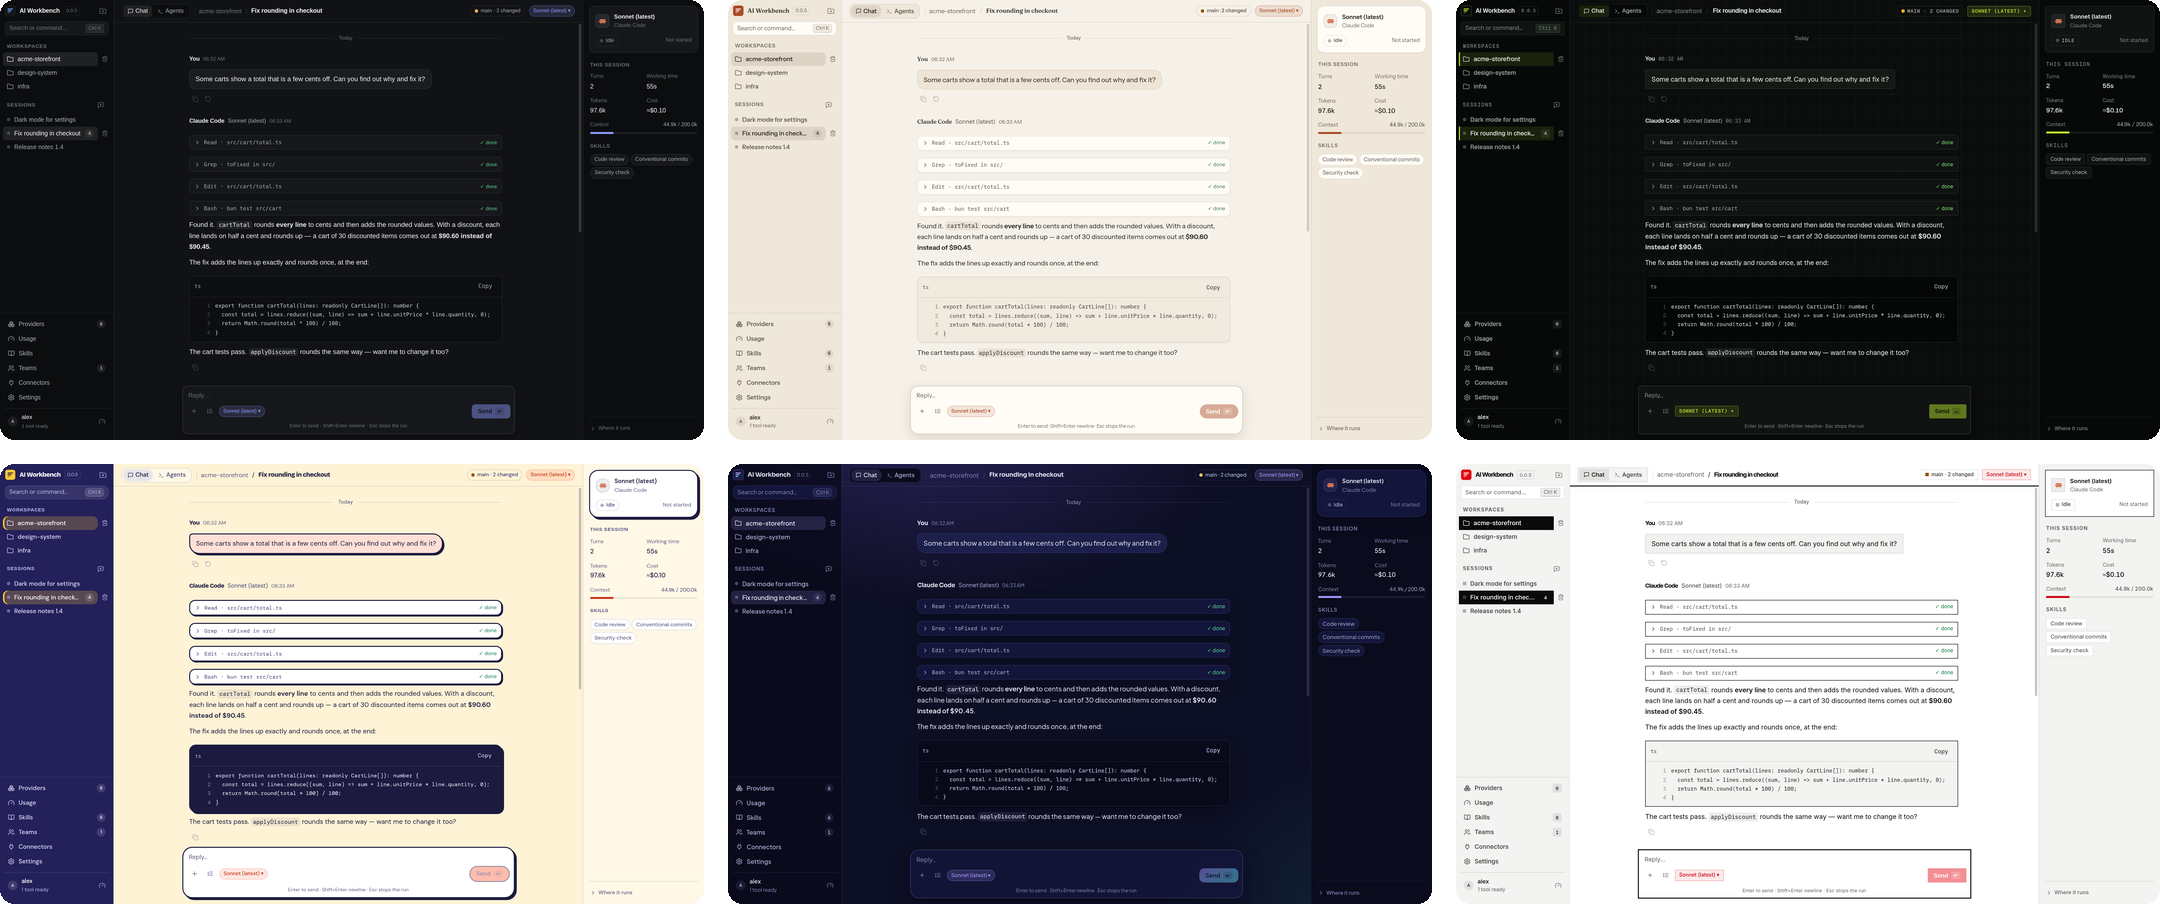
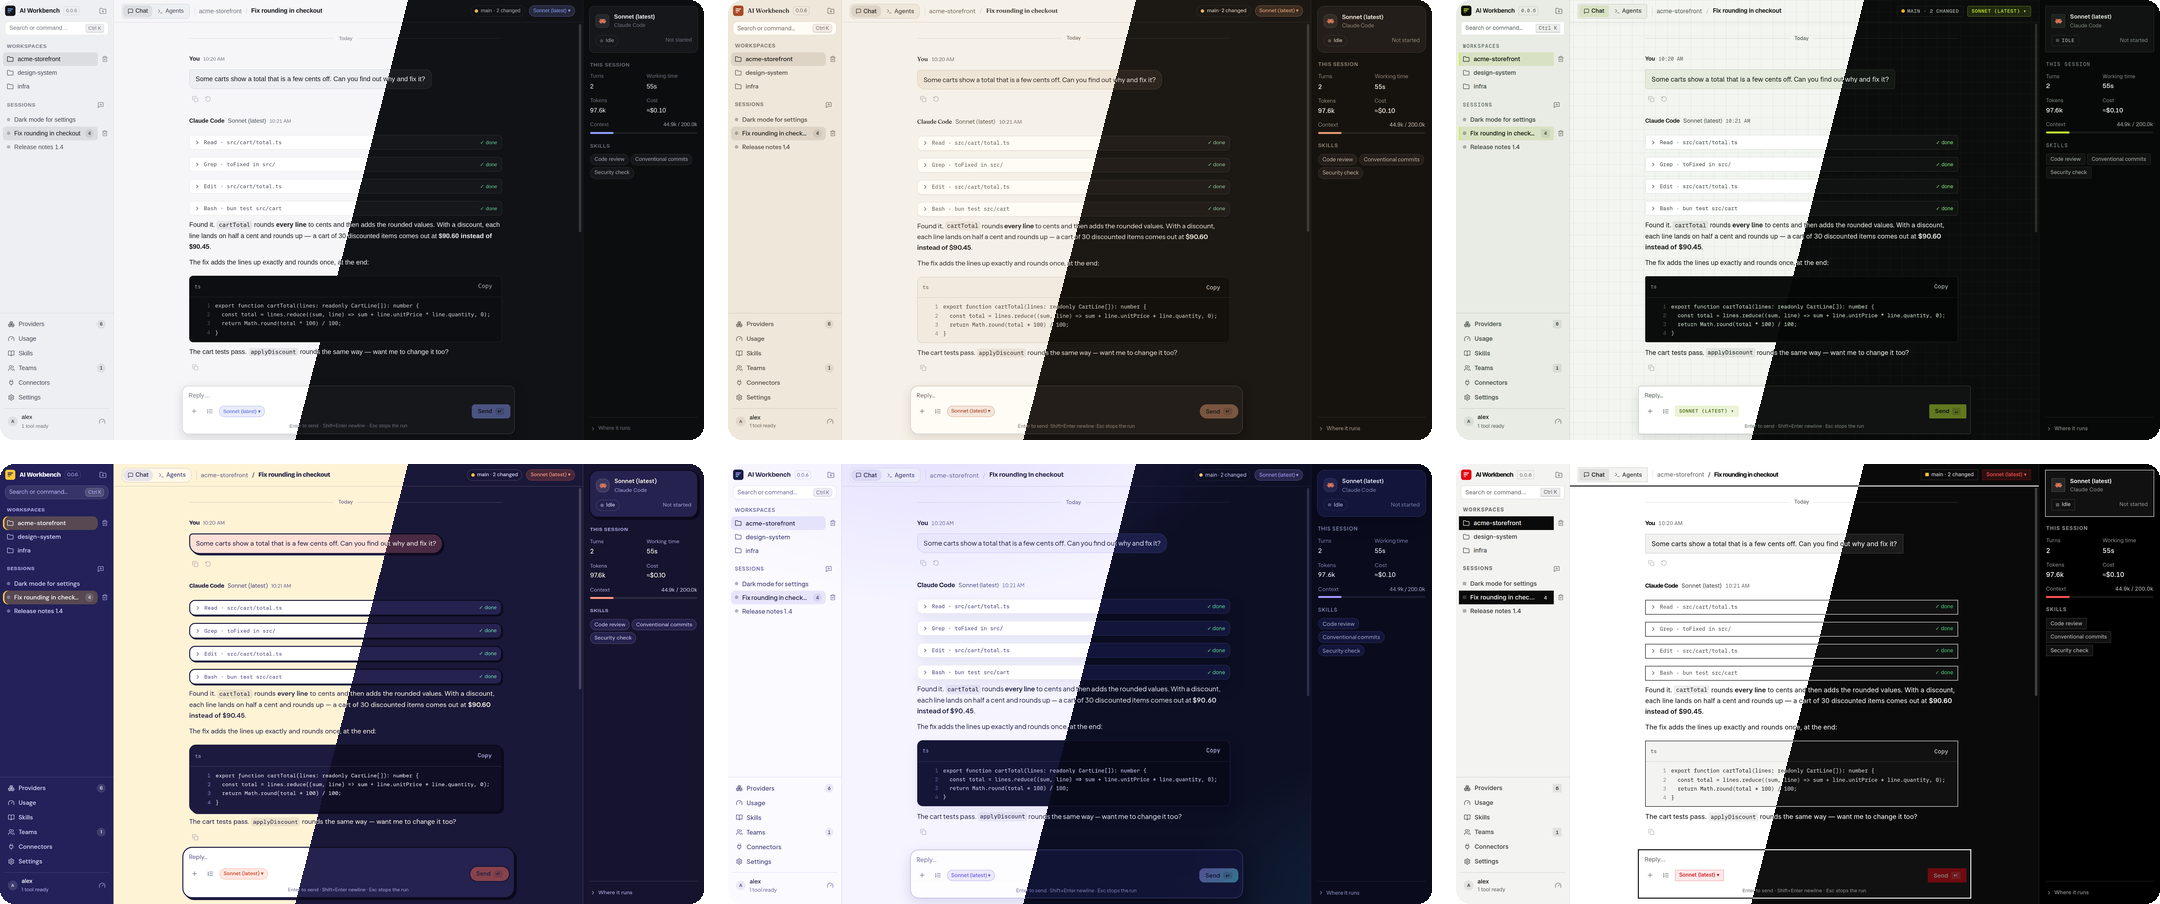
Document light and dark themes, and show both in the README
Claude-Session: https://claude.ai/code/session_01MM3yeZfaugfohn54DjuZeY

diff --git a/DEVELOPMENT.md b/DEVELOPMENT.md
@@ -101,33 +101,42 @@ migrations folder being present at runtime.
 
 ## Themes
 
-The app ships eight appearances: Quiet in dark, light or following the
-system, and Atelier, Mission Control, Playground, Aurora and Swiss. A theme
-is only token values, so a new one is mostly one block of CSS:
+A theme is chosen together with a mode. The `theme` setting is one of
+Quiet, Atelier, Mission Control, Playground, Aurora and Swiss; the `mode`
+setting is light, dark or the system's. `resolveTheme` in `packages/ui`
+turns both into the name the stylesheets use: Quiet is `dark` or `light`,
+every other theme `<theme>-light` or `<theme>-dark`, set as `data-theme`.
+Settings written before the two were split (0.0.6 and earlier, where the
+mode was part of the theme) are read through `upgradeStoredSettings` in
+`packages/shared`. A theme is only token values, so a new one is mostly CSS:
 
 - `packages/ui/src/tokens.css` — every token, Quiet's values, and the values
   made from the others (radii from `--radius-scale`, the sidebar's palette,
   the terminal's ground). Themes are keyed on `data-theme` of any element,
   not only the root, which is how a picker swatch shows a theme without
   switching the window.
-- `packages/ui/src/themes.css` — the other themes: colours, the island's own
-  dark palette, the terminal's sixteen colours, the three typefaces, shape
-  (`--radius-scale`, `--radius-pill`) and the outline of grouped surfaces
-  (`--card-*`).
+- `packages/ui/src/themes.css` — the other themes. Each has a block matched
+  with `[data-theme|="<theme>"]` (both modes) holding its typefaces, shape
+  (`--radius-scale`, `--radius-pill`), the outline of grouped surfaces
+  (`--card-*`), the island's own dark palette and the colours of its first
+  mode, and a block for `<theme>-light` or `<theme>-dark` with the colours of
+  the other mode.
 - `packages/ui/src/fonts.css` — the typefaces, from `@fontsource` packages,
   Latin only, bundled into the app (the page's policy loads nothing from
   outside).
 - `apps/desktop/src/renderer/themes.css` — where the character tokens apply
   (display face, labels, grouped surfaces, the sidebar's palette) and each
-  theme's touches that a token cannot express.
+  theme's touches that a token cannot express, written with `|=` and
+  tokens so they hold in both modes.
 - `apps/desktop/src/renderer/lib/themes.ts` — the names the picker shows;
   the ids themselves are the `theme` setting's enum in `packages/shared`.
 
-`packages/ui/src/__tests__/themes.test.ts` resolves every theme's tokens and
-fails when a text colour does not read on its ground (WCAG contrast), in
-the window, the sidebar, code blocks, the terminal and the island. The
-startup check picks every theme in Settings and checks the rendered window,
-that its typeface loaded, and that the island followed.
+`packages/ui/src/__tests__/themes.test.ts` resolves every theme in both
+modes from the CSS and fails when a text colour does not read on its ground
+(WCAG contrast), in the window, the sidebar, code blocks, the terminal and
+the island. The startup check picks every theme in both modes in Settings
+and checks the rendered window and its colour scheme, that its typeface
+loaded, and that the island followed.
 
 ## Conventions
 

diff --git a/HANDOFF.md b/HANDOFF.md
@@ -14,10 +14,19 @@ branch `design/approved-rollout` is merged into it and can be deleted.
 tests (20 real-tool tests skipped without their tools), the build and both
 startup phases (198 checks, none failing).
 
-What changed since 0.0.5, each verified by tests and the startup check:
+Since 0.0.6 (not released yet): **every theme has a light and a dark
+mode.** The setting is split into `theme` (Quiet, Atelier, Mission
+Control, Playground, Aurora, Swiss) and `mode` (system, light, dark);
+0.0.6's single choice is read through `upgradeStoredSettings`, so nobody's
+look changes on update. Settings has a Mode control under the theme picker,
+whose swatches show each theme light and dark; the command palette has
+"Theme: …" and "Mode: …". The contrast test and the startup check cover
+all twelve. How it is put together: `DEVELOPMENT.md` → Themes.
 
-- **Themes.** Eight appearances in a picker under Settings (Quiet dark,
-  light and system; Atelier, Mission Control, Playground, Aurora, Swiss),
+What changed in 0.0.6 over 0.0.5, each verified by tests and the startup check:
+
+- **Themes.** A picker under Settings (Quiet in dark, light and system;
+  Atelier, Mission Control, Playground, Aurora, Swiss in one mode each),
   also in the command palette. A theme is token values only; how they are
   laid out and how to add one is in `DEVELOPMENT.md` → Themes. Every raw
   colour and radius in the components became a token for this, the
@@ -85,8 +94,9 @@ straight into a fresh database, the app started as that user with a clean
 environment, and each view captured over the DevTools protocol at 1440×900
 and twice the pixel density, then scaled to 2160 px wide. The island picture
 is the real island, with a stand-in for Claude Code asking for a permission,
-laid over a blurred agents view. `themes.png` is the conversation in six
-themes, each picked in Settings, set side by side. Retake them the same way
+laid over a blurred agents view. `themes.png` is the conversation in the six
+themes, each picked in Settings and cut on a slant between its light and
+dark mode. Retake them the same way
 when a view changes; the README says they show demo data.
 
 ## How to run it

diff --git a/README.md b/README.md
@@ -105,13 +105,14 @@ session.
 
 ### Make it look the way you like
 
-<img src="docs/images/themes.png" alt="The same conversation in six themes: Quiet Dark, Atelier, Mission Control, Playground, Aurora and Swiss" />
+<img src="docs/images/themes.png" alt="The same conversation in six themes, each shown light on the left and dark on the right: Quiet, Atelier, Mission Control, Playground, Aurora and Swiss" />
 
 Pick a **theme** under Settings and the whole app changes with it — colours, type, shapes, the
-terminals and the status island: **Quiet** (dark, light or following your system), warm
-**Atelier** with serif headings, dense **Mission Control** in lime on black, bold
-**Playground** with thick outlines, **Aurora** in night blue and violet light, and strict black
-and red **Swiss**. The typefaces ship with the app, and every theme is checked to stay readable.
+terminals and the status island: calm **Quiet**, warm **Atelier** with serif headings, dense
+**Mission Control** with lime signals, bold **Playground** with thick outlines, **Aurora** in
+violet and cyan light, and strict black, white and red **Swiss**. Every theme comes **light and
+dark** — pick one, or let it follow your system. The typefaces ship with the app, and every
+theme is checked to stay readable in both modes.
 
 ## How it works
 

diff --git a/STATUS_ISLAND.md b/STATUS_ISLAND.md
@@ -74,10 +74,10 @@ tiny: state, open, dismiss, cycle — nothing else.
 
 ## Theme
 
-The island draws in the app's theme — its typeface, shape and accent — and
-switches with it: main pushes the setting on its own channel
-(`ISLAND_THEME_CHANNEL`) when it changes and whenever the island page loads.
-Its body stays dark in every theme, each theme giving it a dark palette of
+The island draws in the app's theme and mode — its typeface, shape and
+accent — and switches with them: main pushes both on its own channel
+(`ISLAND_THEME_CHANNEL`) when they change and whenever the island page
+loads. Its body stays dark in every theme and mode, each theme giving it a dark palette of
 its own (`--island-*` tokens), because it floats over windows the app knows
 nothing about, and a light theme's ink on that body once made titles
 unreadable. With nothing running it shows the app's logo.

diff --git a/PROGRESS.md b/PROGRESS.md
@@ -34,6 +34,16 @@ or 0.0.6 work below: it deepens criteria already ticked or is a judgement
 (G7 "dark mode polished", "visual hierarchy follows Quiet UI principles")
 that stays the person's.
 
+### Every theme light and dark (2026-09-24, after 0.0.6)
+
+Verified here by tests and the startup check: each of the six themes has a
+light and a dark mode; the contrast test measures all twelve from the
+stylesheets; in the built app each is picked in Settings in both modes,
+drawn with the matching colour scheme and readable title and sidebar text,
+with its typeface loaded. Settings stored by 0.0.6 and earlier keep the
+look they had (unit test of the upgrade). Not verified: the modes against
+a real Windows or macOS system theme switch.
+
 ### Release 0.0.6 (2026-09-24)
 
 Verified here by tests and the startup check:
